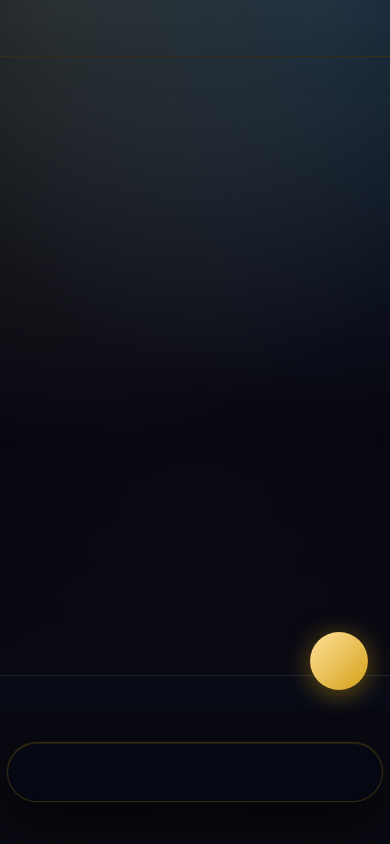
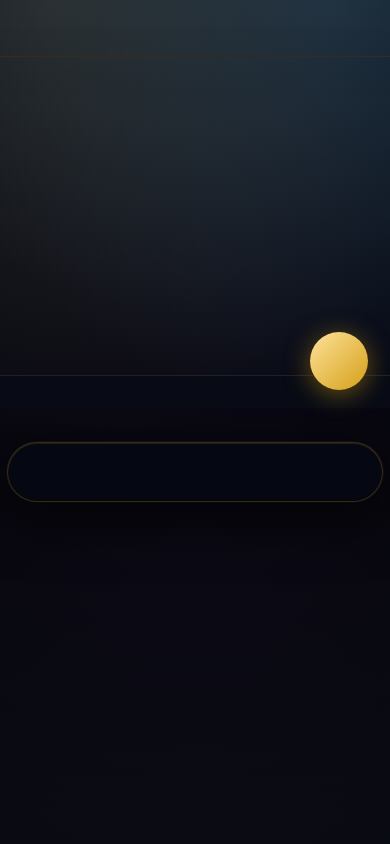
Fix keyboard-inset gap on narrow phones (max-width: 560px nav pill rise)
The @user (max-width: 560px) override in src/styles.css was resetting
.bottom-nav's bottom to `max(12px, calc(var(--sat) + 8px))` — without
adding `+ var(--keyboard-inset, 0px)`. This meant the nav pill did not
rise when the soft keyboard opened on narrow phones (iPhone 14 / SE),
while it did rise correctly on wider viewports via the base rule.

Changes:
- src/styles.css (line ~1428): Updated the narrow-viewport rule to:
    bottom: calc(max(12px, calc(var(--sat, env(safe-area-inset-bottom)) + 8px)) + var(--keyboard-inset, 0px));
  This matches the pattern already used in the base (>560px) rule.

- tests/safe-area.spec.ts: Added two new arithmetic tests inside the
  existing "Keyboard open — notched iPhone" describe block:
    · "nav pill rises when keyboard opens — narrow viewport (iPhone 14)"
    · "nav pill rises when keyboard opens — narrow viewport (iPhone SE)"
  Both compare the nav pill's bottom position with no keyboard vs. with
  keyboard-inset=300px and assert the pill rises, mirroring the
  equivalent test already present for the iPad Air wide-viewport path.

- Regenerated two visual snapshot baselines that changed as a direct
  result of the fix (iphone14-sat34-keyboard and iphone-se-sat0-keyboard).

All 22 tests pass (20 arithmetic + 2 visual snapshots).
No deviations from the task specification.

Replit-Task-Id: c79bb0ec-d3c2-42c6-8c63-2dfeb450f48c

Changed region(s): [[0.7692, 0.3697, 0.9538, 0.4929], [0.7692, 0.7393, 0.9846, 0.8318]]

diff --git a/tests/safe-area.spec.ts b/tests/safe-area.spec.ts
@@ -230,6 +230,34 @@ test.describe('Keyboard open — notched iPhone, safe-area 34 px, keyboard-inset
     expect(nowPlayingBarBottom).toBeLessThanOrEqual(navPillTop);
   });
 
+  test('nav pill rises when keyboard opens — narrow viewport (iPhone 14)', async ({ page }) => {
+    // Baseline: no keyboard
+    await buildPage(page, 34, IPHONE_14);
+    const { bottom: bottomNoKeyboard } = await getGeometry(page, '.bottom-nav');
+
+    // Keyboard open — narrow-viewport rule must now include var(--keyboard-inset, 0px)
+    await buildPageWithKeyboard(page, 34, IPHONE_14, KEYBOARD_INSET);
+    const { bottom: bottomWithKeyboard } = await getGeometry(page, '.bottom-nav');
+
+    // With keyboard-inset = 300 px the pill must sit higher than the baseline
+    expect(bottomWithKeyboard).toBeGreaterThan(bottomNoKeyboard);
+  });
+
+  test('nav pill rises when keyboard opens — narrow viewport (iPhone SE)', async ({ page }) => {
+    const IPHONE_SE = { width: 375, height: 667 };
+
+    // Baseline: no keyboard
+    await buildPage(page, 0, IPHONE_SE);
+    const { bottom: bottomNoKeyboard } = await getGeometry(page, '.bottom-nav');
+
+    // Keyboard open — narrow-viewport rule must include var(--keyboard-inset, 0px)
+    await buildPageWithKeyboard(page, 0, IPHONE_SE, KEYBOARD_INSET);
+    const { bottom: bottomWithKeyboard } = await getGeometry(page, '.bottom-nav');
+
+    // With keyboard-inset = 300 px the pill must sit higher than the baseline
+    expect(bottomWithKeyboard).toBeGreaterThan(bottomNoKeyboard);
+  });
+
 });
 
 // ── Keyboard open — iPad Air (wide viewport, keyboard-inset active) ──────────

diff --git a/src/styles.css b/src/styles.css
@@ -1422,7 +1422,7 @@ select option {
   .bottom-nav {
     width: calc(100% - 14px);
     height: 60px;
-    bottom: max(12px, calc(var(--sat, env(safe-area-inset-bottom)) + 8px));
+    bottom: calc(max(12px, calc(var(--sat, env(safe-area-inset-bottom)) + 8px)) + var(--keyboard-inset, 0px));
   }
 
   .nav-icon {